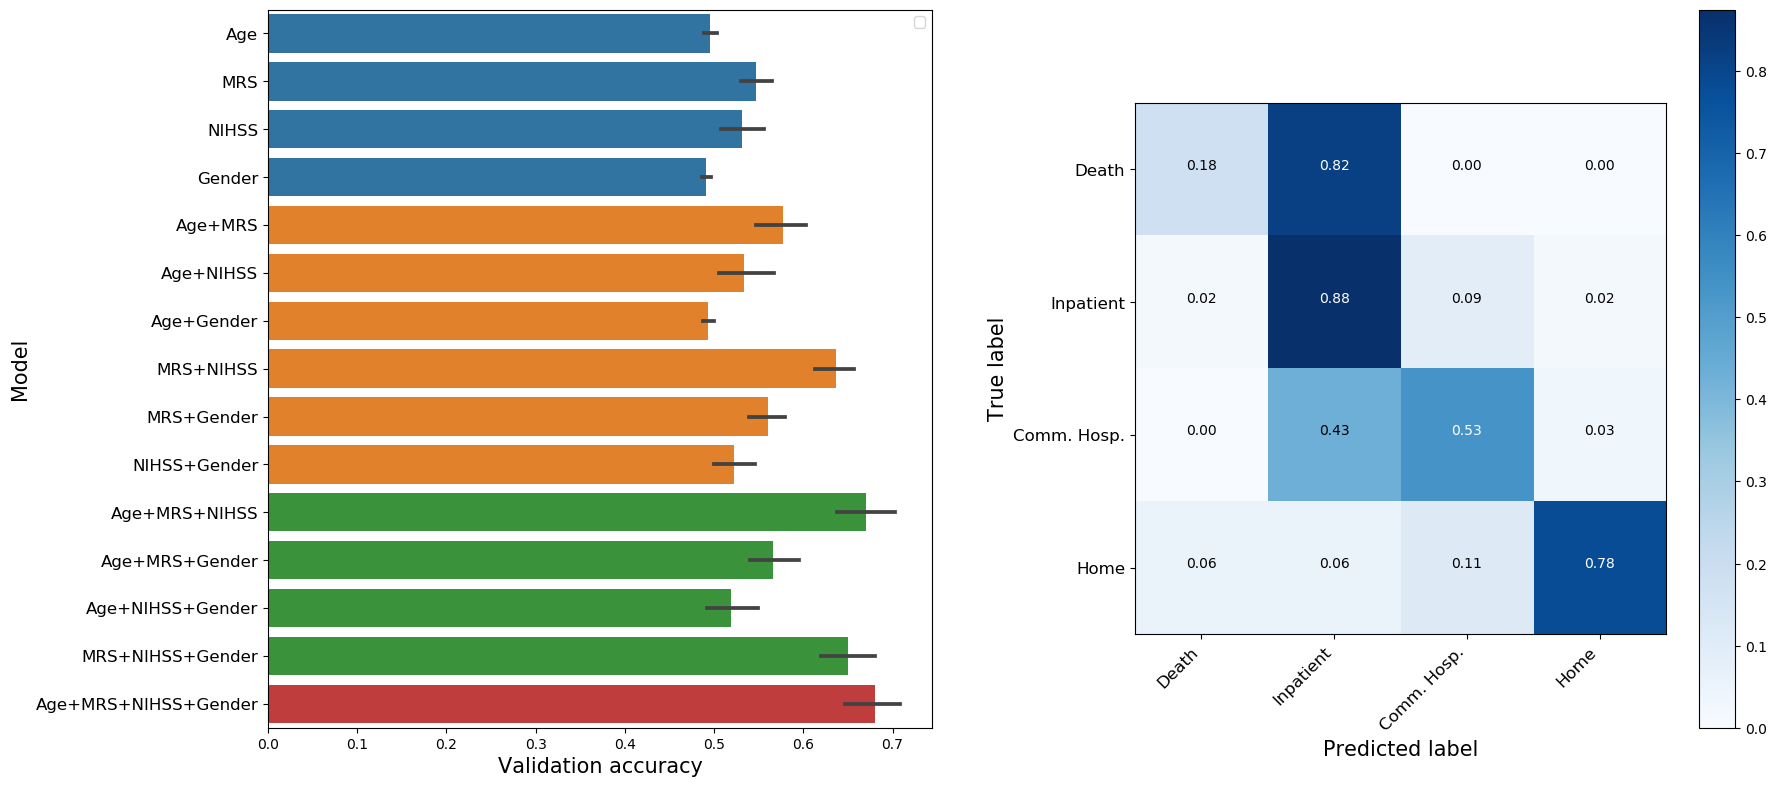
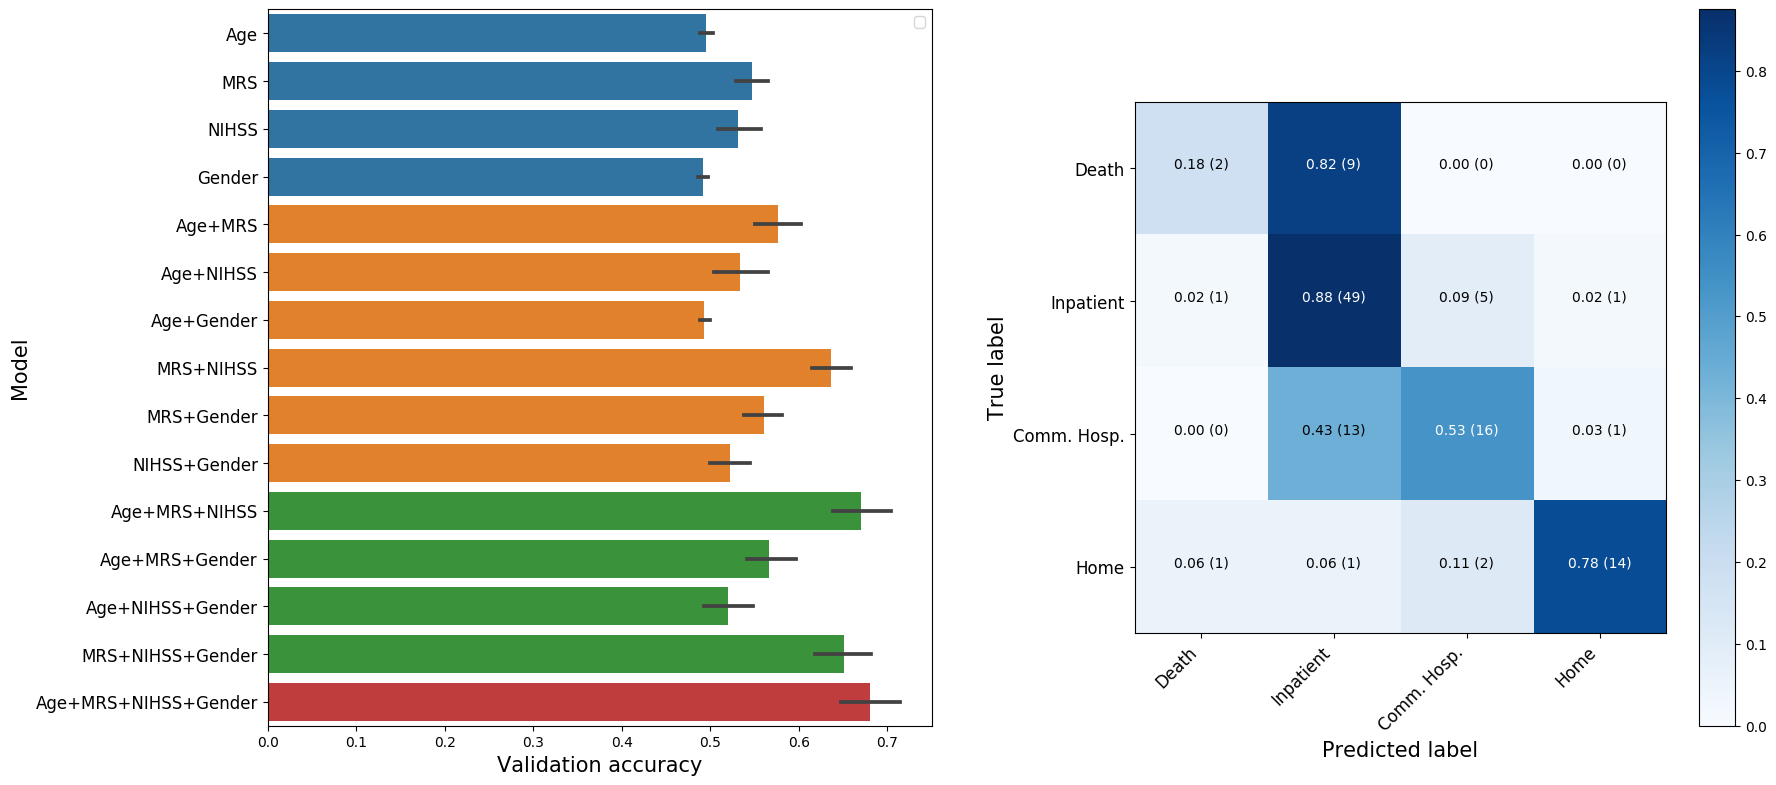
Add raw numbers to confusion matrix

diff --git a/code/utils.py b/code/utils.py
@@ -15,14 +15,25 @@ def get_all_combinations_of_predictors(predictors):
     return combinations
 
 
+def _format_number(number, normalize, include_raw, raw=None):
+    if normalize and not include_raw:
+        return f"{number:.2f}"
+    elif not normalize:
+        return f"{number}"
+    elif normalize and include_raw:
+        return f"{number:.2f } ({raw})"
+
+
 def plot_confusion_matrix(
-    cm, classes, normalize=False, title="Confusion matrix", cmap=plt.cm.Blues
+    cm, classes, normalize=False, title="Confusion matrix", cmap=plt.cm.Blues,
+        include_raw=False,
 ):
     """
     This function prints and plots the confusion matrix.
     Normalization can be applied by setting `normalize=True`.
     """
     if normalize:
+        raw = cm
         cm = cm.astype("float") / cm.sum(axis=1)[:, np.newaxis]
         print("Normalized confusion matrix")
     else:
@@ -38,12 +49,15 @@ def plot_confusion_matrix(
     plt.yticks(tick_marks, classes, fontsize=int(_xlabel_size * 0.8))
 
     fmt = ".2f" if normalize else "d"
+    if include_raw and normalize:
+        fmt = '.2f (d)'
+
     thresh = cm.max() / 2.0
     for i, j in itertools.product(range(cm.shape[0]), range(cm.shape[1])):
         plt.text(
             j,
             i,
-            format(cm[i, j], fmt),
+            _format_number(cm[i,j], normalize, include_raw, raw= raw[i,j] if include_raw else None),
             horizontalalignment="center",
             color="white" if cm[i, j] > thresh else "black",
         )

diff --git a/code/scripts/figures/figure3.py b/code/scripts/figures/figure3.py
@@ -65,7 +65,7 @@ def plot_graph(collated_scores, confusion_mtx):
 
     plt.sca(axes[1])
     plot_confusion_matrix(
-        confusion_mtx, classes=constants.OUTCOME_DICT.values(), normalize=True
+        confusion_mtx, classes=constants.OUTCOME_DICT.values(), normalize=True, include_raw=True,
     )
     plt.title("")
     plt.tight_layout(pad=0.4, w_pad=4, h_pad=1.0)
